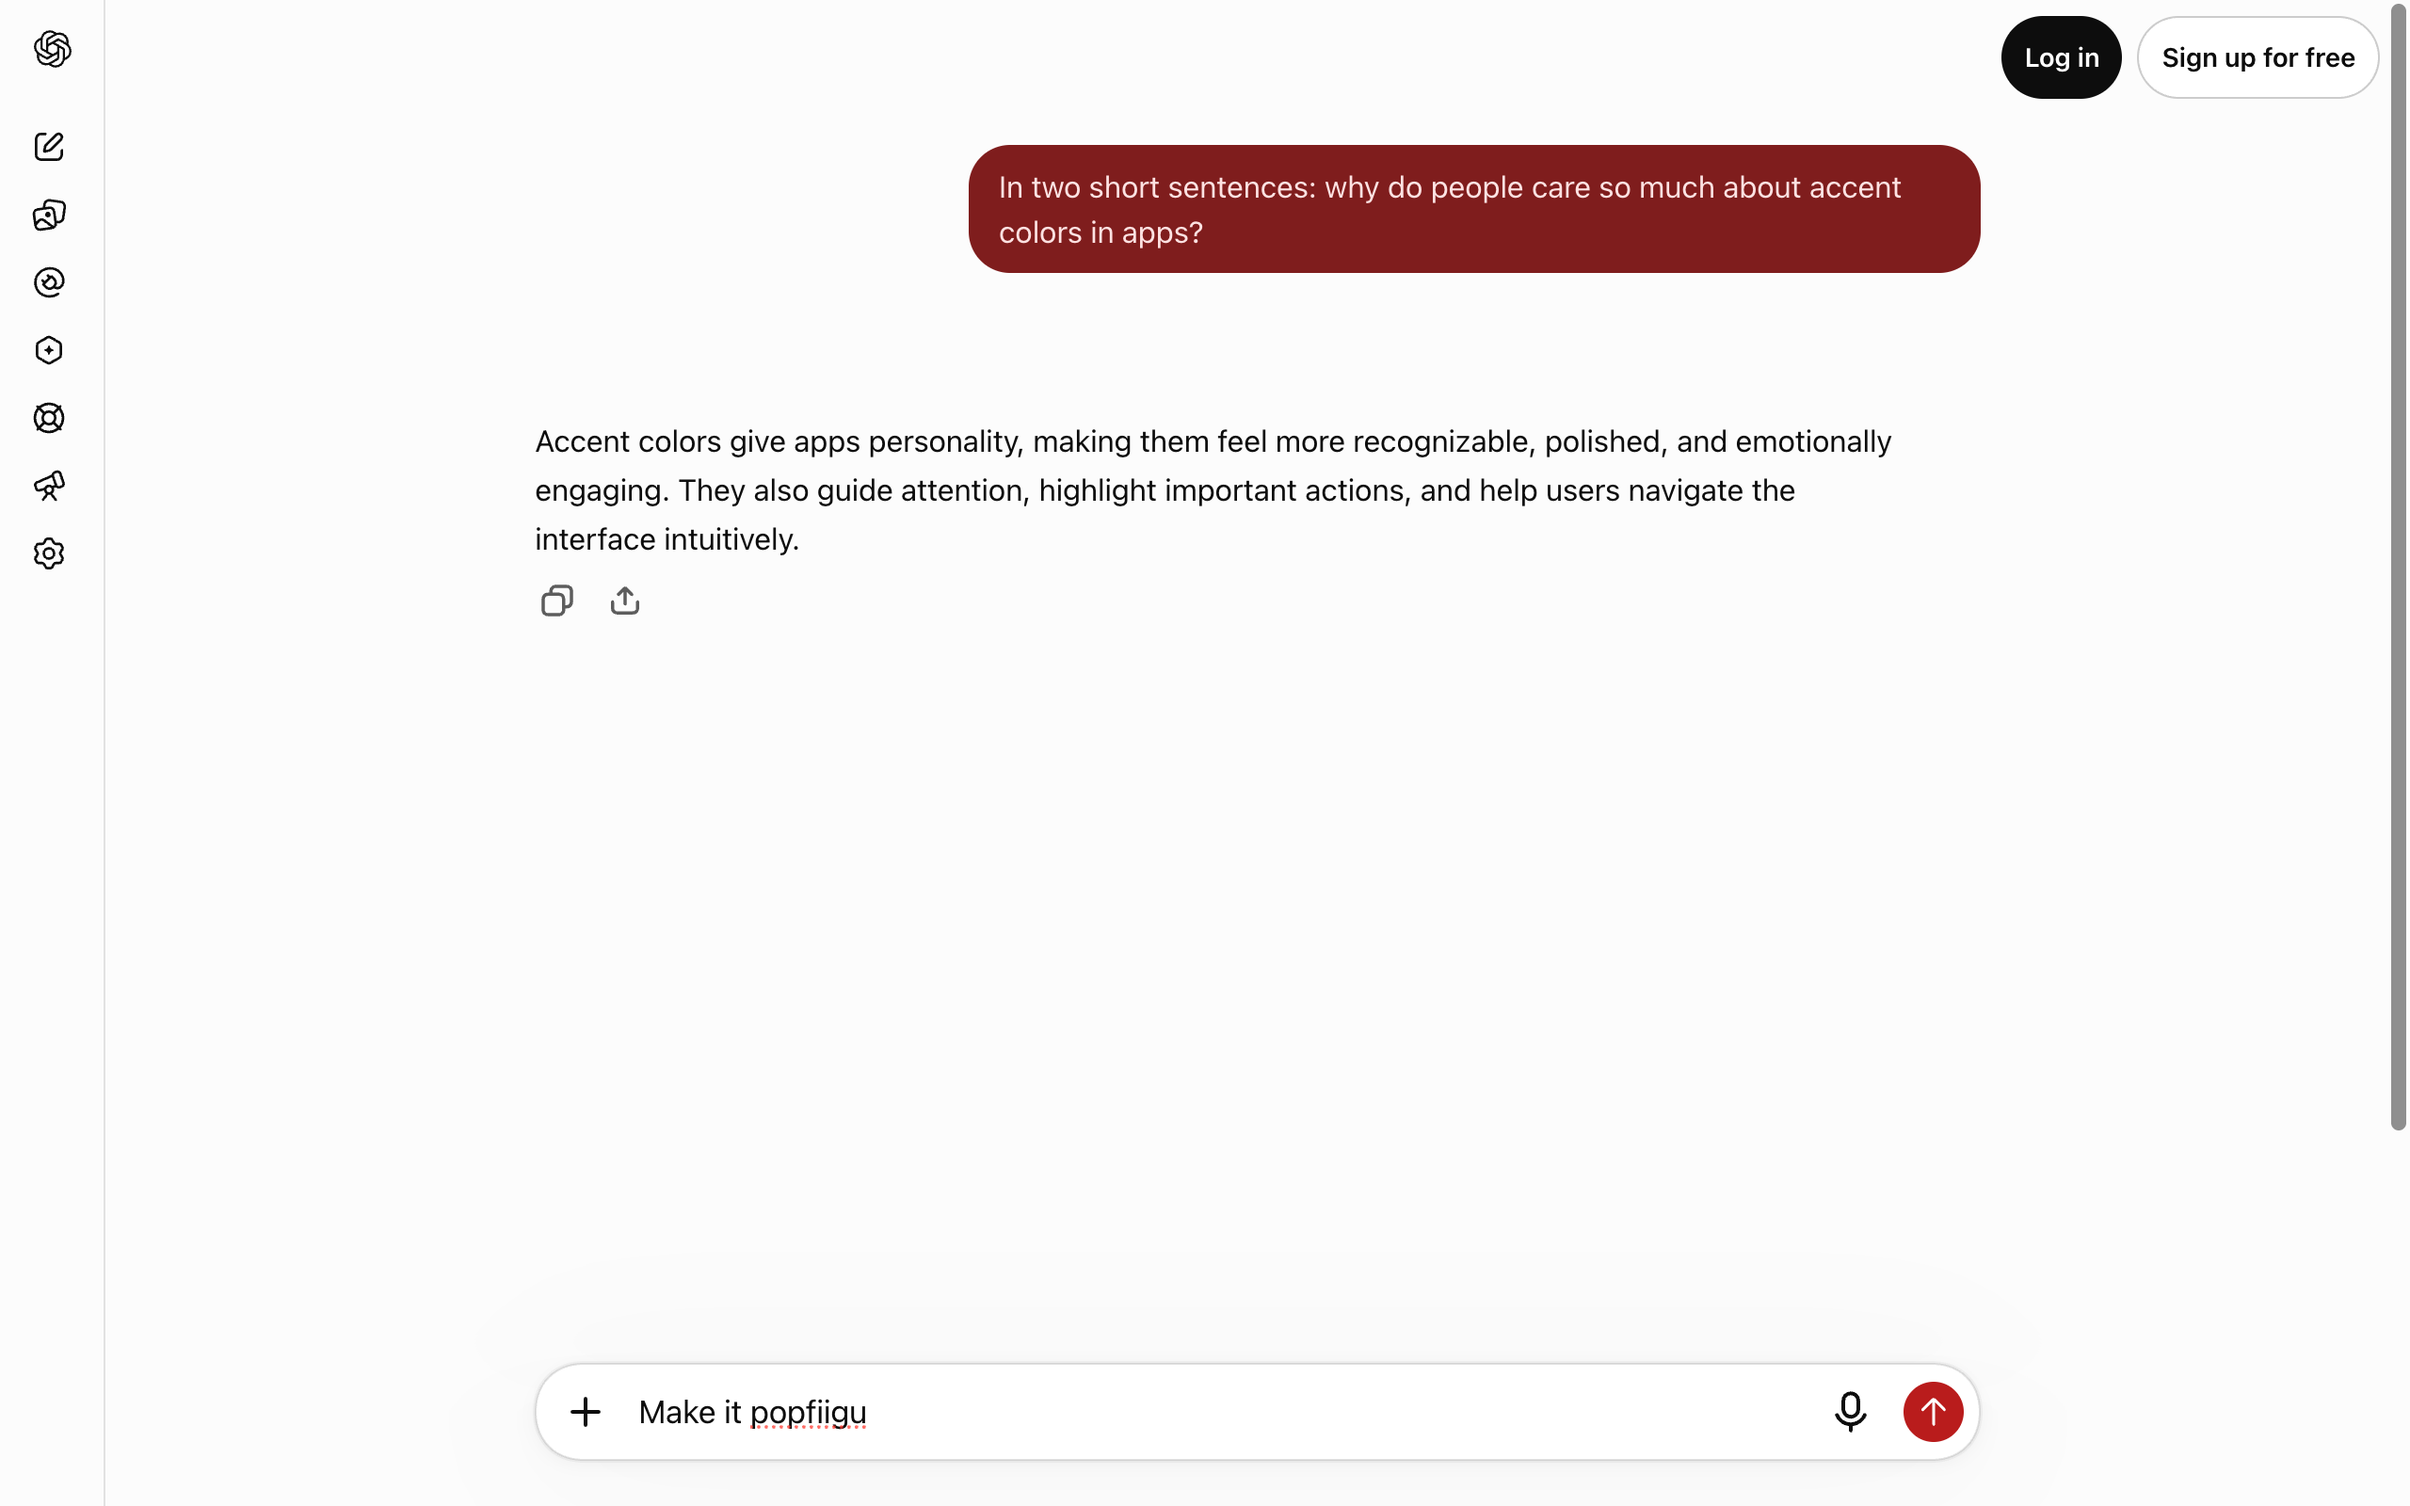
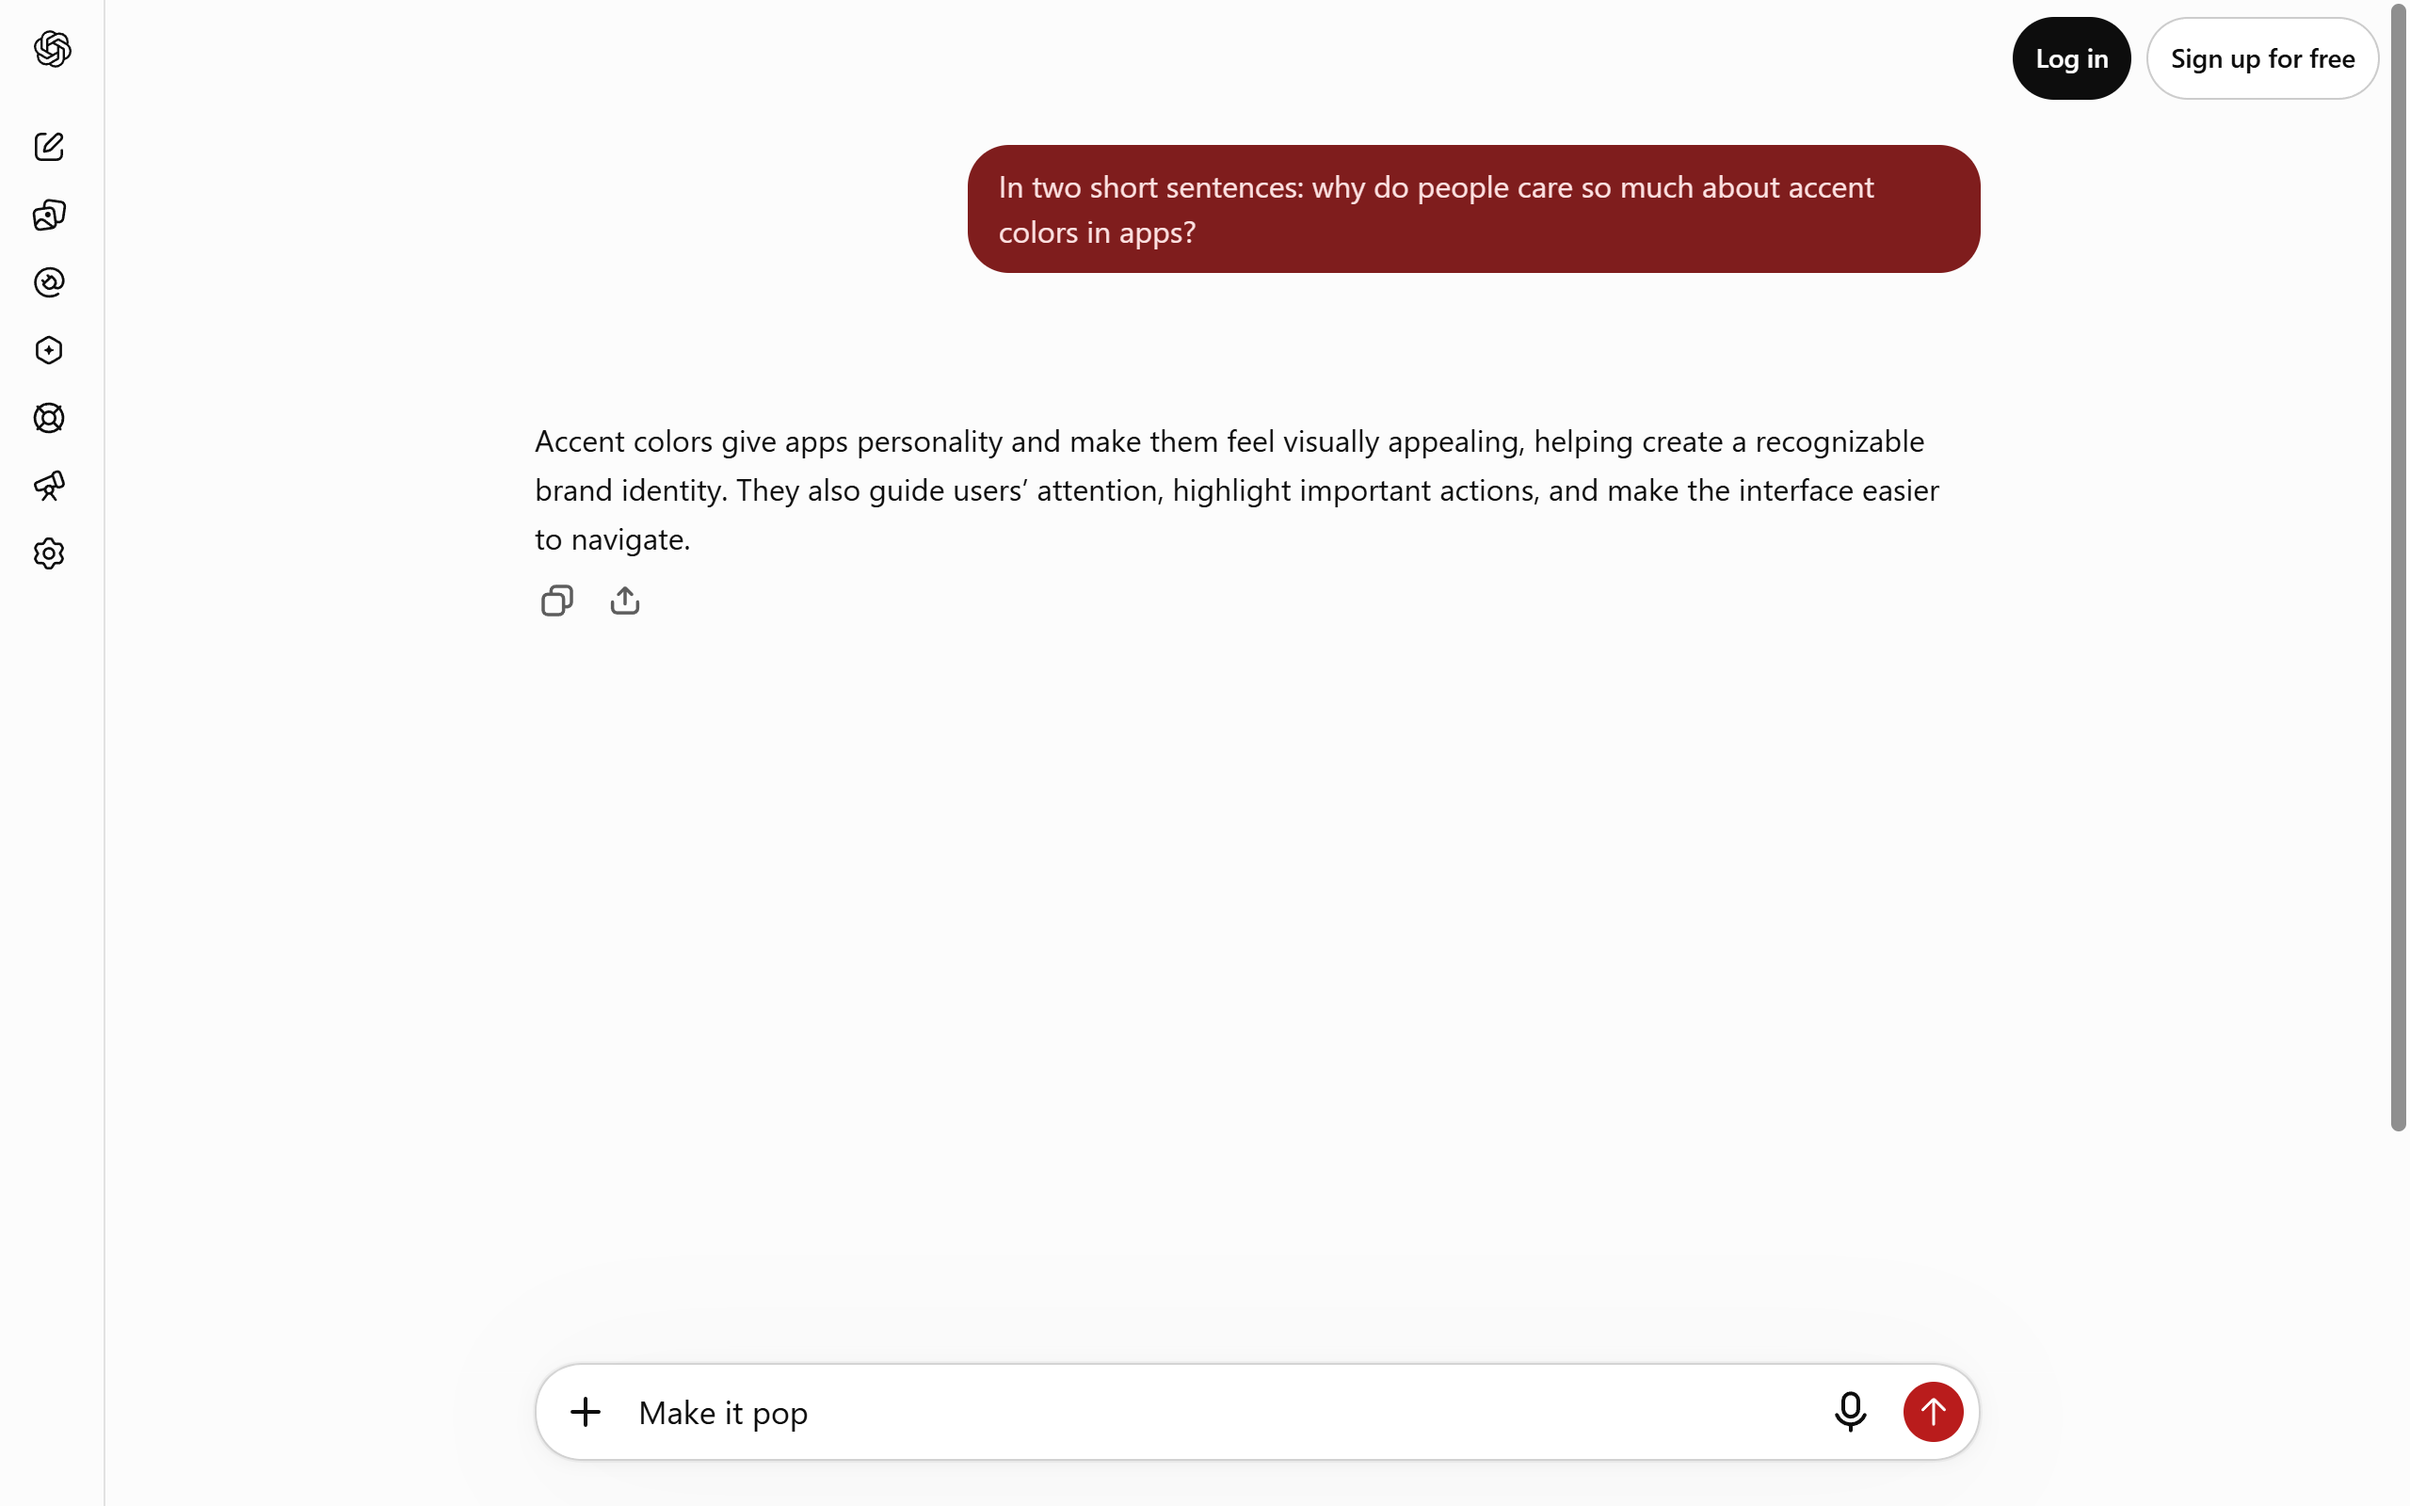
Keep restored ChatGPT drafts out of the README screenshots
ChatGPT restores an unsent composer draft from earlier visits. The
screenshot script typed on top of it, so leftovers from previous runs
ended up in the images ("Make it popfiigu" in mocha-dark.png, and a "hi"
prefix on the sent prompt when a profile is reused). The script now
targets the visible composer (ChatGPT also renders a hidden mobile
textarea), clears it before typing, and refuses to capture if the sent
prompt or the composer text is not exactly what it typed.

The six chatgpt.com screenshots are recaptured together from this head
in Chrome 145 on Windows, so they share one font rendering. The popup
screenshots are unchanged.

diff --git a/AGENTS.md b/AGENTS.md
@@ -36,6 +36,7 @@ MV3 browser extension: themes chatgpt.com (72 named themes from the 1.x popup, o
 - Only logged-out chatgpt.com has been verified (no account available). Logged-in UI may use extra groups.
 - Content script must never throw into the page; everything is try/catch'd and degrades to no styling. Cached tokens are candidates only: validate current CSS before rendering; a null discovery must clear tokens, remove overrides and write failed status even with zero rules.
 - No-flash: ChatGPT can paint (FCP ~140 ms on a fast reload) before the async extension-storage read + stylesheet `load` task finish (override lands ~160-300 ms), so a stock frame showed on fast loads. Fix: `render()` writes `{build, css}` to chatgpt.com `localStorage["chatgpt-accents-for-all:paint"]`; `start()` applies it synchronously when `<html data-build>` matches, before any site CSS. `rediscover()` treats "no themeable rules yet while readyState != complete" as inconclusive (keeps the paint, writes no status). Cache misses (first load after install, first load after a ChatGPT deploy, site data cleared) still go through validation and can flash once.
+- Live scripts in a reused profile: ChatGPT restores the unsent composer draft, and also renders a hidden mobile `<textarea>`. Type only into the visible composer (`:visible`) after clearing it, or old text leaks into prompts/screenshots.
 - storage.sync quotas: popup writes `local.live` per change (instant repaint) and debounces `sync.settings` (400 ms, flushed on pagehide). Content picks the newer by `updatedAt`.
 - Native `<input type=color>` closes Firefox popups: the popup disables pointer on it there (`html[data-native-picker=off]`) and the hex field is the control. Chromium uses the native picker.
 - Popup keeps the 1.x footprint (352px content + 14px padding = 380px). Cards are `role=radio` in a `radiogroup` (one tab stop, arrows move AND select, 2 columns); hidden tab panel is `inert`. DM Sans is bundled (latin subset, OFL in `src/popup/fonts/`); never load remote fonts.
